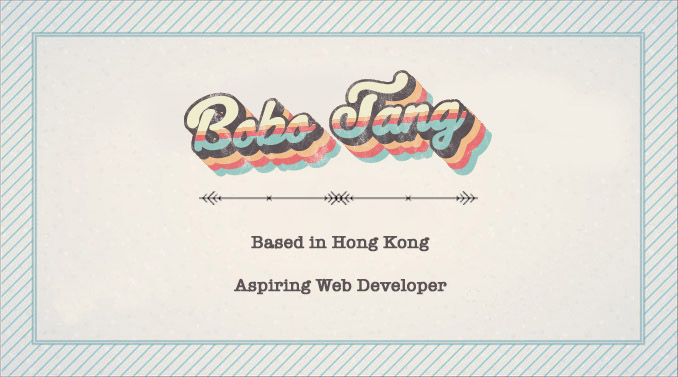
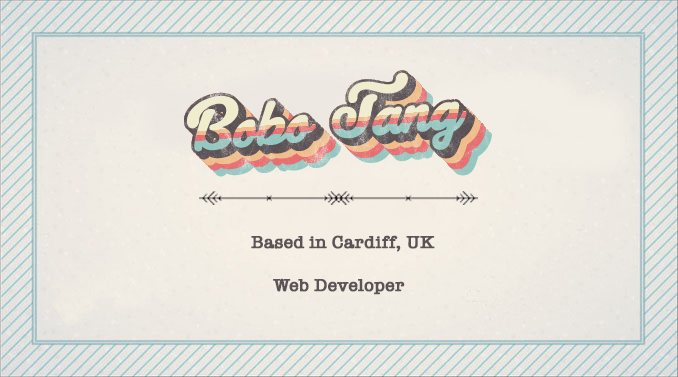
updated about me & card

Changed region(s): [[0.3407, 0.7294, 0.6814, 0.7878], [0.4956, 0.6127, 0.6504, 0.6711]]

diff --git a/docs/index.html b/docs/index.html
@@ -6,6 +6,7 @@
     <link rel="icon" href="./img/Name.png">
     <title>Bobo Tang | Web Developer</title>
     <meta name="viewport" content="width=device-width, initial-scale=1">
+    <meta name="description" content="ReactJS web developer undertaking Master's degree in Software Engineering in Cardiff UK, looking for internship/ part-time/ graduate scheme"/>
     <link href="https://fonts.googleapis.com/css?family=Roboto+Slab&display=swap" rel="stylesheet">
     <link href="https://fonts.googleapis.com/css?family=Arvo&display=swap" rel="stylesheet">
     <link rel="stylesheet" href="https://maxcdn.bootstrapcdn.com/bootstrap/3.3.7/css/bootstrap.min.css">
@@ -83,22 +84,24 @@
                         <h4 id="typed"></h4>
                     </div>
 
-                    <!-- <div class="row clear text-center">
-                        <p>I majored in Contemporary English Studies at university. </p>
-                        <p>I like creating and making things, and programming could provide a platform for me to do so.
-                        </p>
-                        <p>So, I turned to software engineering and joined a bootcamp in 2019.</p>
-                    </div> -->
-
                     <div class="row clear" id="card">
                         <div class="custom-border">
                             <!-- http://preview.themeforest.net/item/vintclub-a-pub-and-whisky-bar-wordpress-theme/full_screen_preview/22678852?_ga=2.158025978.1329024301.1611803210-1072772624.1611802913 -->
                             <div class="cardContent">
                                 <!-- ... Content in here ... -->
-                                <p>I majored in Contemporary English Studies at university. </p>
-                                <p>I have always been interested in web development and I like creating and making
-                                    things.</p>
-                                <p>So, I turned to software engineering and joined a bootcamp in 2019.</p>
+                                <p>I majored in Contemporary English Studies at university. 
+                                    I never thought I would would work in the tech industry, 
+                                    but I have always been interested in web development.
+                                </p>
+                                <p>When I was younger, I dabbled with web development because it was part of the school curriculum.
+                                    Although the applications were not built using any programming languages, 
+                                    I was already fascinated by the fact that I was able to make a website with multiple pages and to display information, 
+                                    and this sensation has stuck with me since.
+                                </p>
+                                <p>As we are living in an increasingly tech-driven world,
+                                    I believe it will continue to be a promising industry,
+                                    I decided to learn about software development in 2019.
+                                </p>
                             </div>
                         </div>
                     </div>
